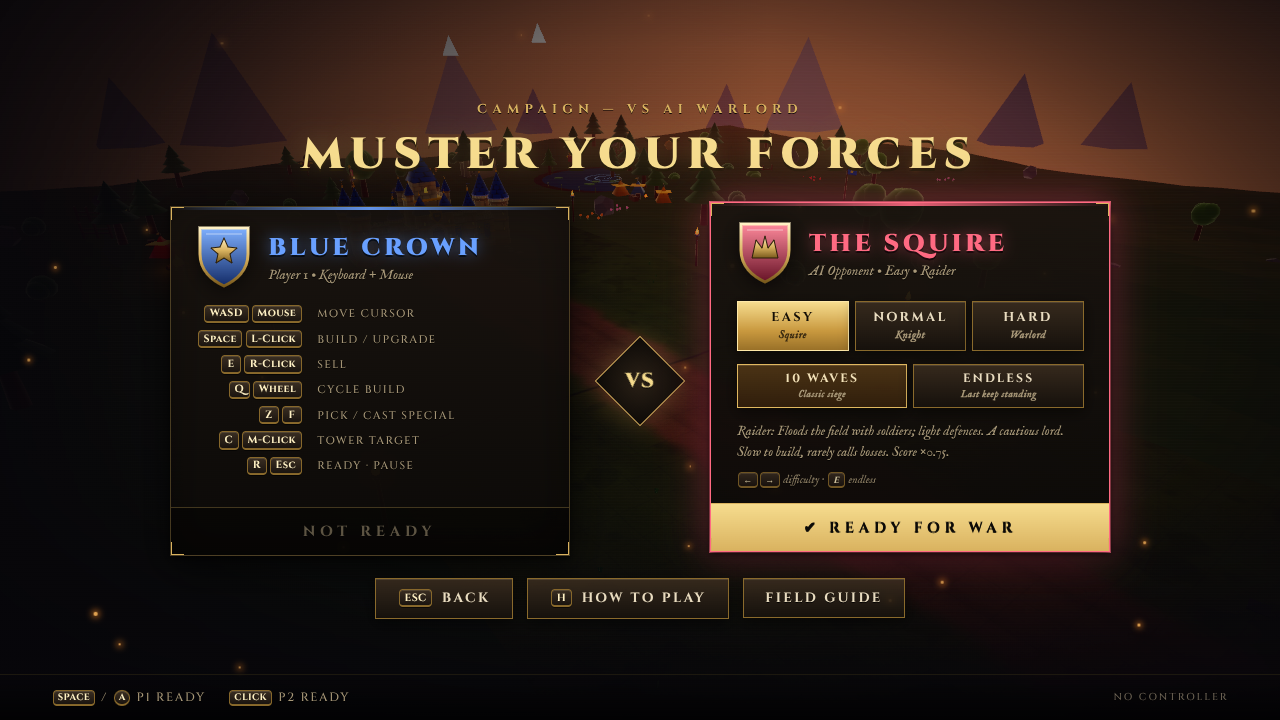
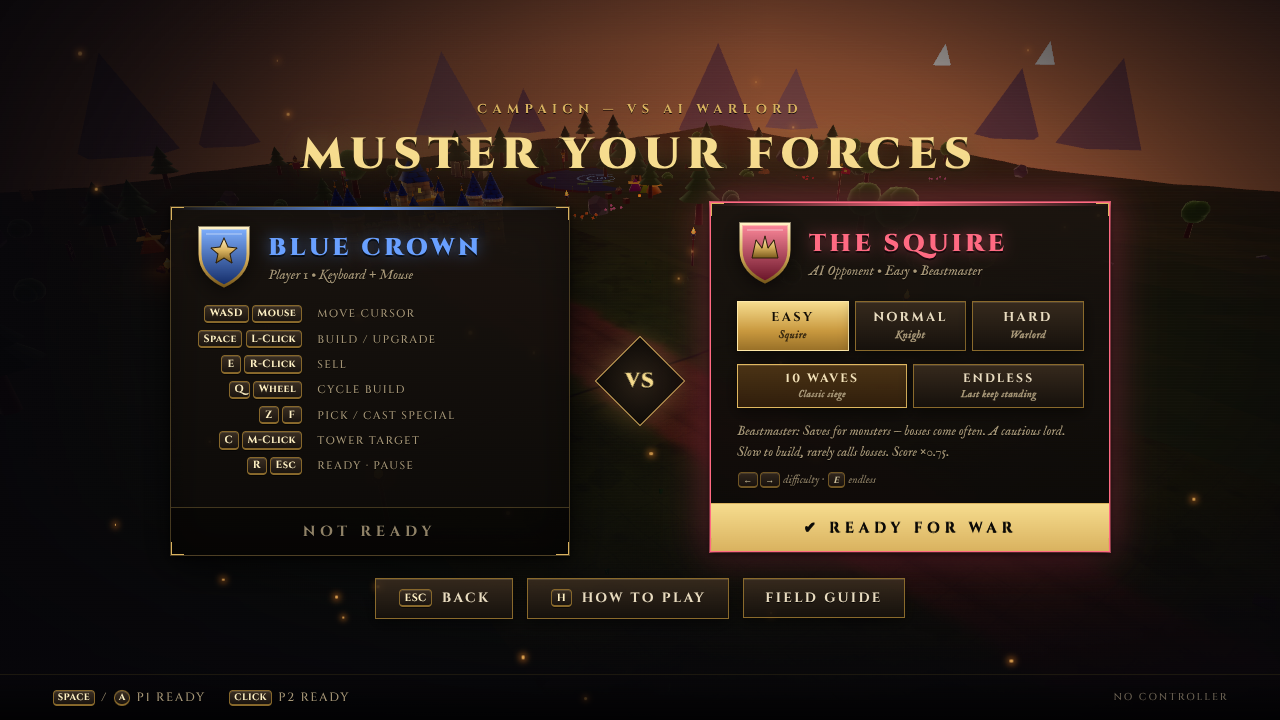
v3.59: Graphics Auto - adaptive resolution for phones
New default graphics mode. Auto keeps bloom and colour grade on but
lowers the render resolution in steps (to 55% at most) when frames stay
under ~45 fps, and climbs back once there is headroom (hysteresis, so it
doesn't flicker). High is the old fixed full quality; Low now also caps
the resolution at 1x. Old saved 'high' defaults migrate to Auto once.
The performance overlay shows the mode and current scale.

Claude-Session: https://claude.ai/code/session_015RA4Knfeio4uZvXdyqETUb

diff --git a/ui.js b/ui.js
@@ -277,7 +277,7 @@ function uiSyncSoundBtn(){
   const b=document.getElementById('btn-sound');
   if(b)b.innerHTML=`Sound: ${AUDIO.muted?'Off':'On'} <span class="key">M</span>`;
   const gb=document.getElementById('btn-gfx');
-  if(gb&&typeof __post!=='undefined'&&__post)gb.textContent=`Graphics: ${__post.enabled?'High':'Low'}`;
+  if(gb)gb.textContent=`Graphics: ${({auto:'Auto',high:'High',low:'Low'})[SETTINGS.gfx]||'Auto'}`;
 }
 function uiResume(){
   if(gameState!=='paused')return;
@@ -375,15 +375,21 @@ function uiGameOver(winner,score,best,isNewBest,ex){ex=ex||{};
 
 
 // ==================== v3.37: SETTINGS ====================
-const SETTINGS={music:0.5,sfx:0.8,gfx:'high',shake:true,dmg:true,tips:true,perf:false};
-try{Object.assign(SETTINGS,JSON.parse(localStorage.getItem('castleSiege_settings')||'{}'))}catch(e){}
+const SETTINGS={music:0.5,sfx:0.8,gfx:'auto',shake:true,dmg:true,tips:true,perf:false,v:2};
+try{const sv=JSON.parse(localStorage.getItem('castleSiege_settings')||'{}')||{};
+  // v3.59: 'high' used to be the saved default; move those players to Auto once
+  if(!sv.v&&sv.gfx==='high')sv.gfx='auto';sv.v=2;Object.assign(SETTINGS,sv)}catch(e){}
 function uiSaveSettings(){try{localStorage.setItem('castleSiege_settings',JSON.stringify(SETTINGS))}catch(e){}}
 function uiApplySettings(init){
   {const ph=document.getElementById('perf-hud');if(ph&&!SETTINGS.perf)ph.style.display='none'}
   if(typeof AUDIO!=='undefined'){AUDIO.music=SETTINGS.music;AUDIO.sfx=SETTINGS.sfx;if(typeof __applyAudioLevels==='function')__applyAudioLevels(!!init)}
   if(typeof __post!=='undefined'&&__post){
     let saved=false;try{saved=!!localStorage.getItem('castleSiege_settings')||!!localStorage.getItem('castleSiege_gfx')}catch(e){}
-    if(saved||!init){__post.auto=false;__post._slow=0;__post.enabled=SETTINGS.gfx==='high'}
+    if(saved||!init){__post._slow=0;__post.auto=SETTINGS.gfx==='auto';__post.enabled=SETTINGS.gfx!=='low'}
+  }
+  // v3.59: resolution per mode — Auto adapts, High fixed full, Low capped at 1x
+  if(typeof applyPR==='function'&&typeof basePR==='function'&&uiApplySettings._gfx!==SETTINGS.gfx){
+    uiApplySettings._gfx=SETTINGS.gfx;__prScale=SETTINGS.gfx==='low'?Math.min(1,1/basePR()):1;applyPR();
   }
 }
 // Hide plain damage numbers when disabled (gold rewards and castle hits
@@ -393,7 +399,7 @@ const SETTING_ROWS=[
   {k:'music',label:'Music',kind:'pct'},
   {k:'sfx',label:'Effects',kind:'pct'},
   {k:'muted',label:'Sound',kind:'mute'},
-  {k:'gfx',label:'Graphics',kind:'opt',opts:['high','low'],names:{high:'High',low:'Low (faster)'}},
+  {k:'gfx',label:'Graphics',kind:'opt',opts:['auto','high','low'],names:{auto:'Auto (adapts)',high:'High',low:'Low (faster)'}},
   {k:'shake',label:'Screen shake',kind:'bool'},
   {k:'dmg',label:'Damage numbers',kind:'bool'},
   {k:'tips',label:'Tutorial tips',kind:'bool'},
@@ -773,7 +779,7 @@ function uiPerfTick(workMs){
   const alive=enemies.filter(e=>e.alive).length;
   __pf.el.innerHTML=`<span class="${c}">${fps.toFixed(0)} fps</span>  ${(__pf.acc/__pf.n).toFixed(1)} ms/frame  worst ${__pf.worst.toFixed(0)} ms\n`+
     `cpu ${ms.toFixed(1)} ms  calls ${ri.calls}  tris ${(ri.triangles/1000).toFixed(0)}k  geo ${mem.geometries}  tex ${mem.textures}\n`+
-    `units ${alive}  towers ${towers.length}  fx ${typeof __vfxCount==='function'?__vfxCount():'-'}  post ${__post&&__post.enabled?'on':'off'}  dpr ${renderer.getPixelRatio().toFixed(2)}`;
+    `units ${alive}  towers ${towers.length}  fx ${typeof __vfxCount==='function'?__vfxCount():'-'}  post ${__post&&__post.enabled?'on':'off'}  dpr ${renderer.getPixelRatio().toFixed(2)} (${SETTINGS.gfx}${SETTINGS.gfx==='auto'?' '+Math.round(__prScale*100)+'%':''})`;
   __pf.el.style.display='block';
   __pf.n=0;__pf.acc=0;__pf.work=0;__pf.worst=0;
 }

diff --git a/index_3d.html b/index_3d.html
@@ -710,7 +710,7 @@ html,body,button,a,.clickable,.btn,.menu-item,.build-opt,.spec-btn,.boss-btn,.p2
   </div>
   <div class="menu-foot">
     <div class="foot-hints"><span><span class="key">&uarr;</span><span class="key">&darr;</span> Navigate</span><span><span class="key">Enter</span> Select</span><span><span class="key round">A</span> Confirm</span></div>
-    <div class="foot-ver">Castle Siege <b>v3.58</b> &bull; Build 2026-10-24</div>
+    <div class="foot-ver">Castle Siege <b>v3.59</b> &bull; Build 2026-10-24</div>
   </div>
 </div>
 
@@ -1399,6 +1399,22 @@ function pixelToWorld(px,py){return{x:px/T+GRID_OX, y:0, z:(py-GAME_Y)/T+GRID_OZ
 // ==================== THREE.JS SCENE SETUP ====================
 let scene,camera,renderer,clock,__post=null;
 let camZoom=1.0;
+// v3.59: adaptive resolution (Graphics: Auto). Scales the render pixel
+// ratio between 0.55x and 1x of the base so phones hold frame rate.
+let __prScale=1;
+const __ar={acc:0,n:0,slow:0,fast:0};
+function adaptResolution(frameMs){
+  if(SETTINGS.gfx!=='auto'||document.hidden)return;
+  if(frameMs>250)return; // tab switches / hitches are not a trend
+  __ar.acc+=frameMs;__ar.n++;
+  if(__ar.acc<1000)return;
+  const fps=__ar.n*1000/__ar.acc;__ar.acc=0;__ar.n=0;
+  if(fps<45){__ar.slow++;__ar.fast=0}else if(fps>57){__ar.fast++;__ar.slow=0}else{__ar.slow=0;__ar.fast=0}
+  let next=__prScale;
+  if(__ar.slow>=2&&__prScale>0.55){next=Math.max(0.55,__prScale*0.85);__ar.slow=0}
+  else if(__ar.fast>=5&&__prScale<1){next=Math.min(1,__prScale/0.9);__ar.fast=0}
+  if(next!==__prScale){__prScale=next;applyPR()}
+}
 let screenShake=0;
 // v3.7: references to the lighting rig so applyTimeOfDay() can drive
 // them. Assigned inside initScene().
@@ -1443,7 +1459,8 @@ function initScene(container){
   // PERF v2.6: compute an effective pixel ratio that also caps total
   // resolution at ~2.07M pixels (≈1920x1080). On 4K screens this matters
   // a lot more than the DPR cap alone.
-  const _computePR=()=>{
+  const _computePR=()=>basePR()*(__prScale||1);
+  window.basePR=()=>{
     const cw=container.clientWidth,ch=container.clientHeight;
     let pr=Math.min(window.devicePixelRatio||1,1.5);
     const maxPixels=1920*1080;
@@ -1451,6 +1468,7 @@ function initScene(container){
     if(want>maxPixels)pr*=Math.sqrt(maxPixels/want);
     return pr;
   };
+  window.applyPR=()=>renderer.setPixelRatio(_computePR());
   renderer.setSize(container.clientWidth,container.clientHeight);
   renderer.setPixelRatio(_computePR());
   renderer.shadowMap.enabled=true;
@@ -5726,9 +5744,10 @@ function cycleSpeed(){
   uiToast(1,__combatSpeed===1?'Normal speed':`Fast forward \u00B7 ${__combatSpeed}\u00D7`,'good','up');
 }
 
+let __lastFrameT=performance.now();
 function gameLoop(){
   requestAnimationFrame(gameLoop);
-  const __pf0=performance.now();
+  const __pf0=performance.now();adaptResolution(__pf0-__lastFrameT);__lastFrameT=__pf0;
   // Cap rawDt so simAcc can never accumulate more than MAX_SIM_STEPS
   // worth of sim time in a single frame (handles tab-switch gaps).
   // v3.22: 2x speed during combat — multiply raw delta so the sim

diff --git a/tests/mechanics.js b/tests/mechanics.js
@@ -55,6 +55,10 @@ const {chromium}=require('playwright');
     // --- speed: 1x -> 2x -> 3x -> 1x, only during a wave
     gameState='combat';__combatSpeed=1;cycleSpeed();const s2=__combatSpeed;cycleSpeed();const s3=__combatSpeed;cycleSpeed();
     ok('speed_cycle',s2===2&&s3===3&&__combatSpeed===1);gameState='build';cycleSpeed();ok('speed_build_noop',__combatSpeed===1);
+    // --- adaptive resolution: Auto drops under slow frames and recovers; High is fixed
+    SETTINGS.gfx='auto';uiApplySettings();const feed=(ms,secs)=>{for(let x=0;x<secs*1000;x+=ms)adaptResolution(ms)};
+    feed(33,10);const low=__prScale;feed(16,90);ok('adaptive_res',low<0.8&&__prScale===1);
+    SETTINGS.gfx='high';uiApplySettings();feed(50,10);ok('high_fixed_res',__prScale===1);SETTINGS.gfx='auto';uiApplySettings();
     // --- keep warnings fire once per threshold
     pl.castleHP=pl.maxHP*0.45;keepWarn(1);pl.castleHP=pl.maxHP*0.44;keepWarn(1);
     ok('keep_warn_once',pl._warn[0.5]===true&&document.getElementById('callouts').childElementCount===1);
